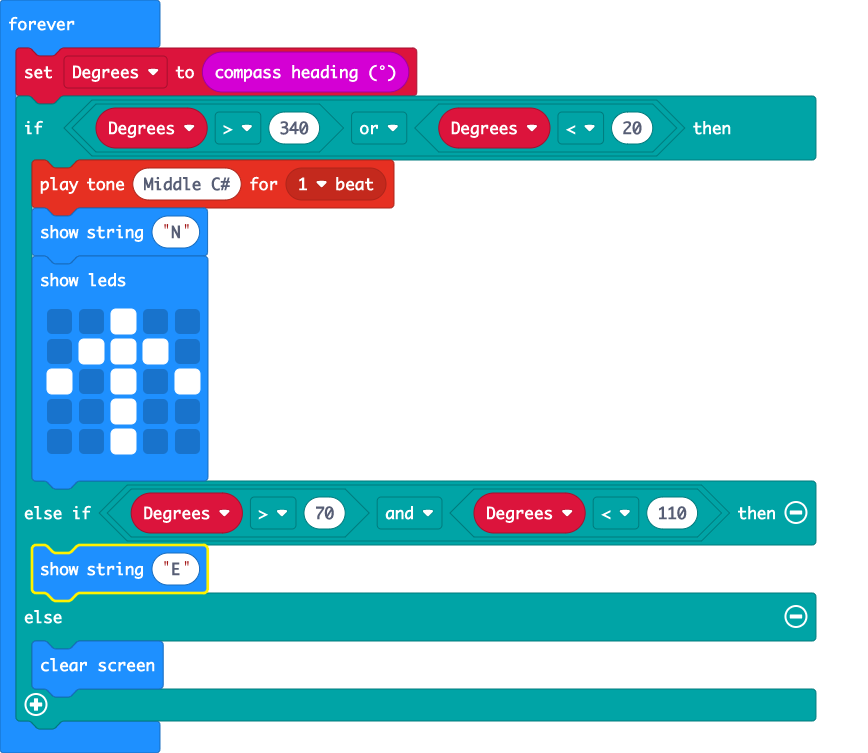
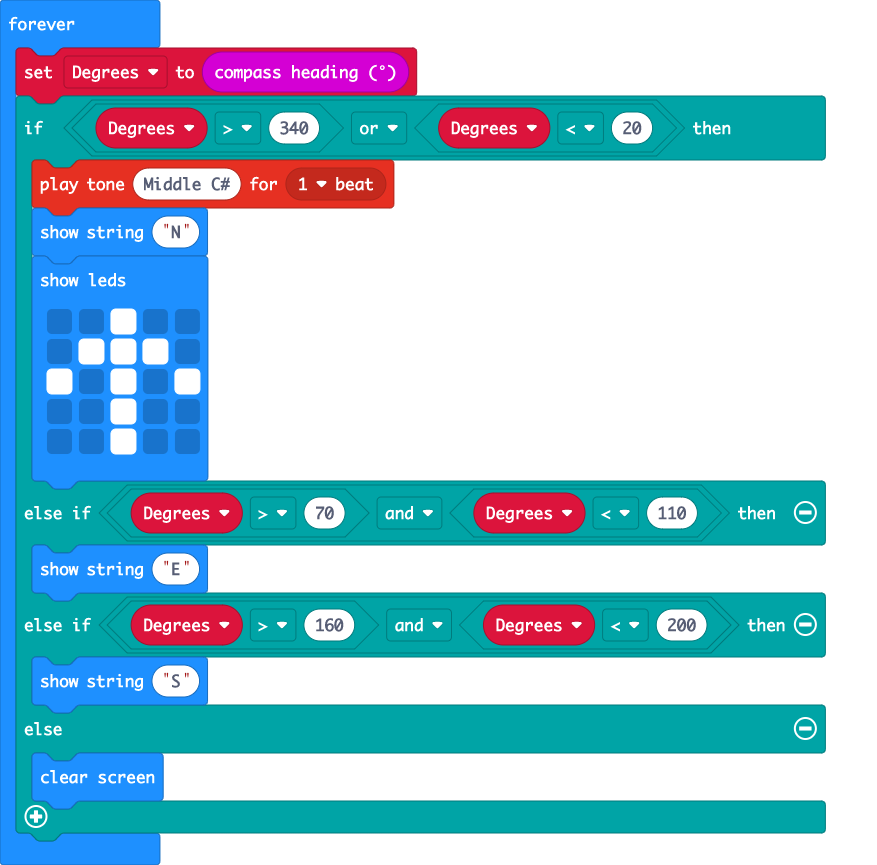
added South diretion

diff --git a/main.ts b/main.ts
@@ -13,6 +13,8 @@ basic.forever(function () {
             `)
     } else if (Degrees > 70 && Degrees < 110) {
         basic.showString("E")
+    } else if (Degrees > 160 && Degrees < 200) {
+        basic.showString("S")
     } else {
         basic.clearScreen()
     }
